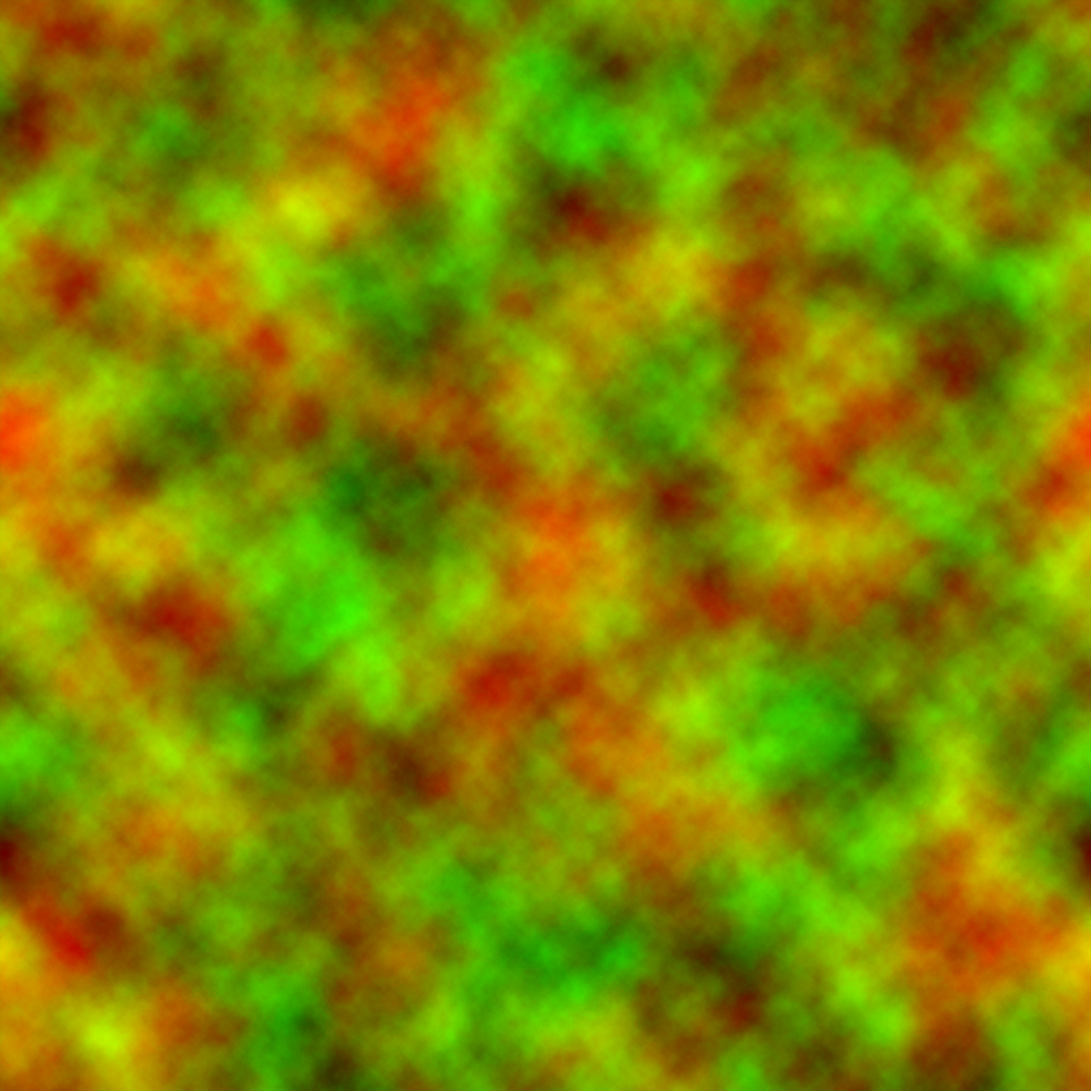
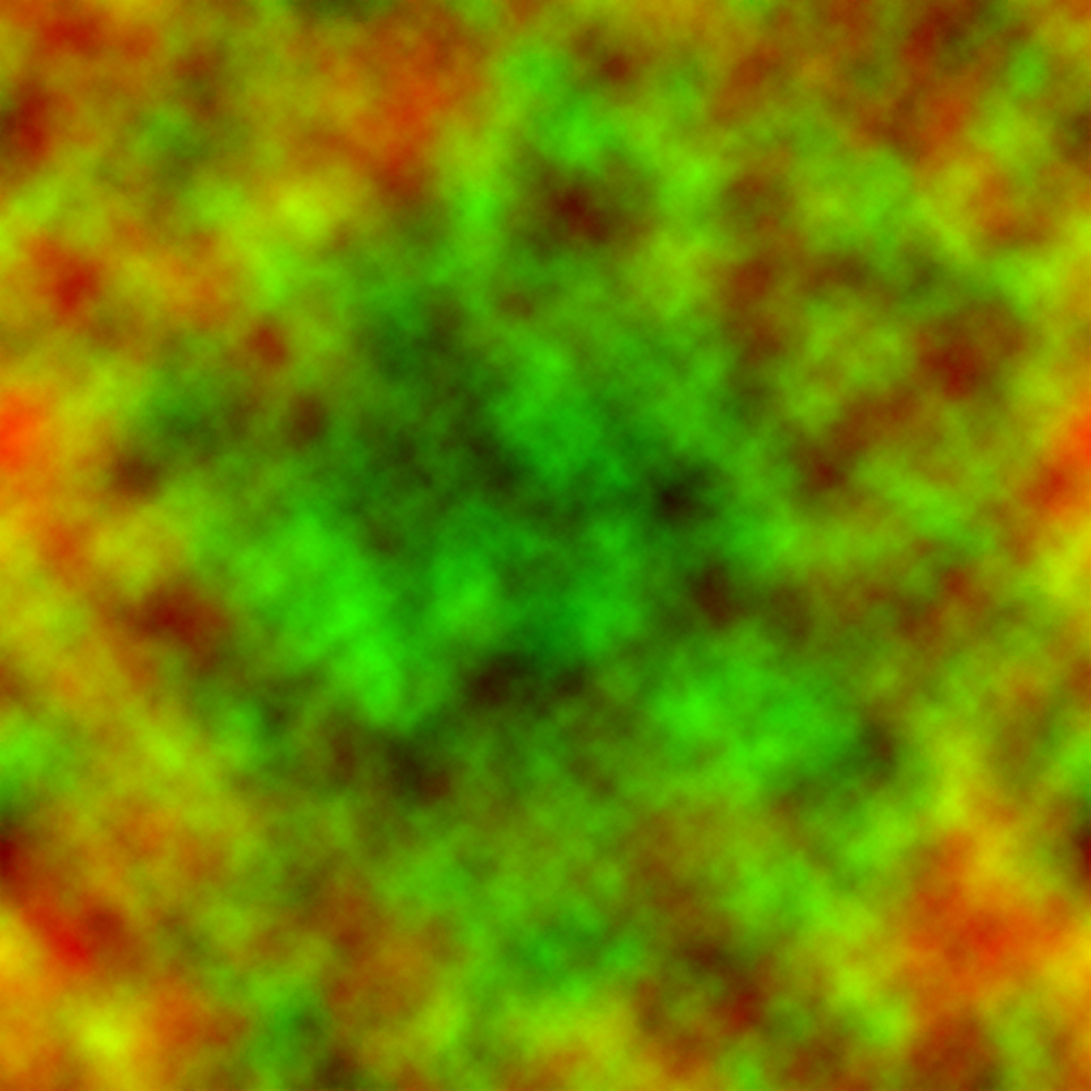
update the transition texture.

diff --git a/webgl/common/Plane.ts b/webgl/common/Plane.ts
@@ -13,7 +13,7 @@ interface SketchStatus {
 }
 
 const MAX = 4
-const DURATION = 3
+const DURATION = 4
 
 export default class Plane extends THREE.Mesh {
   current: number
@@ -113,8 +113,8 @@ export default class Plane extends THREE.Mesh {
     if (!(this.material instanceof THREE.RawShaderMaterial)) return
     const { uniforms } = this.material
 
-    this.sx = Math.min(resolution.x / resolution.y, 1) / 2
-    this.sy = Math.min(resolution.y / resolution.x, 1) / 2
+    this.sx = Math.min(resolution.x / resolution.y, 1)
+    this.sy = Math.min(resolution.y / resolution.x, 1)
     uniforms.uvTransform1.value.setUvTransform(0, 0, this.sx, this.sy, 0, 0.5, 0.5)
     uniforms.uvTransform2.value.setUvTransform(0, 0, this.sx, this.sy, 0, 0.5, 0.5)
     uniforms.uvTransform3.value.setUvTransform(0, 0, this.sx, this.sy, 0, 0.5, 0.5)
@@ -128,7 +128,7 @@ export default class Plane extends THREE.Mesh {
     const { uniforms } = this.material
     const current = this.sketchStatus[this.current]
     const prev = this.sketchStatus[(this.current + MAX - 1) % MAX]
-    const theta = MathEx.radians(Math.floor(Math.random() * 2) * 180)
+    const randomIndex = Math.floor(Math.random() * 4)
     let uvTransform: THREE.Matrix3 | undefined
 
     current.timeShow = 0
@@ -157,11 +157,11 @@ export default class Plane extends THREE.Mesh {
     }
     if (uvTransform !== undefined) {
       uvTransform.setUvTransform(
-        Math.random() * 0.25,
-        Math.random() * 0.25,
-        this.sx,
-        this.sy,
-        theta,
+        0,
+        0,
+        (randomIndex % 2 === 0) ? this.sx : this.sy,
+        (randomIndex % 2 === 0) ? this.sy : this.sx,
+        MathEx.radians(randomIndex * 90),
         0.5,
         0.5
       )
@@ -215,8 +215,8 @@ export default class Plane extends THREE.Mesh {
           status.isDestroyed = true
         }
       }
-      stepShow.value = easing.outCirc(Math.max(Math.min(status.timeShow, DURATION), 0) / DURATION)
-      stepHide.value = easing.outCirc(Math.max(Math.min(status.timeHide, DURATION), 0) / DURATION)
+      stepShow.value = easing.outCubic(Math.max(Math.min(status.timeShow, DURATION), 0) / DURATION)
+      stepHide.value = easing.outCubic(Math.max(Math.min(status.timeHide, DURATION), 0) / DURATION)
     }
   }
 }
